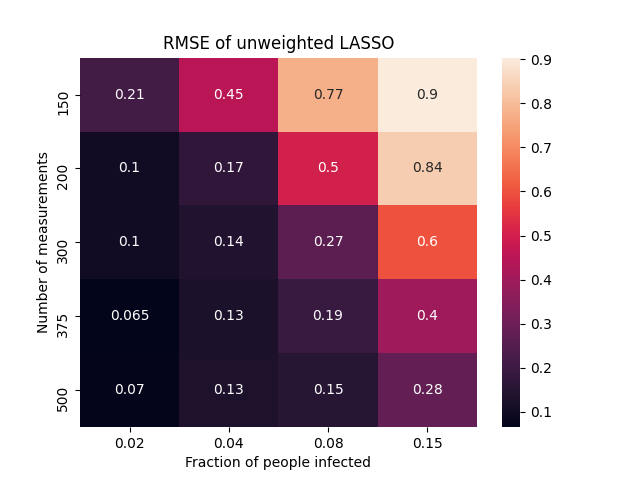
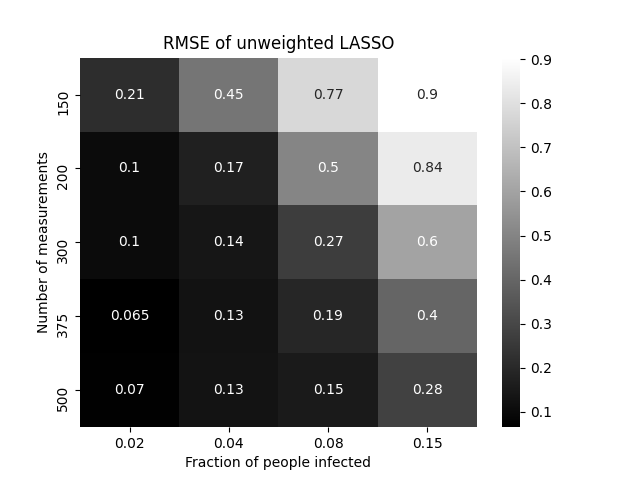
Changed plots to grayscale

diff --git a/src/main.py b/src/main.py
@@ -16,6 +16,7 @@ import warnings
 import numpy as np
 import seaborn as sns
 import matplotlib.pyplot as plt
+import matplotlib.cm as cm
 
 def main():
     # warnings.filterwarnings("ignore")
@@ -29,14 +30,14 @@ def main():
     plot = np.zeros((num_ns, num_ss))
     for i, n in enumerate(n_values):
         for j, s in enumerate(sparsity_values):
-            plot[i,j] = performance_map[str(n)][str(s)]['rrmse']*math.sqrt(1000)
+            plot[i,j] = performance_map[str(n)][str(s)]['sensitivity']
     
-    h = sns.heatmap(plot, yticklabels=n_values, xticklabels=sparsity_values, \
+    h = sns.heatmap(plot, cmap=cm.gray, yticklabels=n_values, xticklabels=sparsity_values, \
         annot=True)
     h.set(ylabel='Number of measurements', \
         xlabel='Fraction of people infected', \
-        title='RMSE of unweighted LASSO')
-    plt.savefig('data/plots/rmse-unweighted.png')
+        title='Sensitivity of unweighted LASSO')
+    plt.savefig('data/plots/sensitivity-unweighted.png')
     
     return
     for n in n_values:
@@ -51,7 +52,7 @@ def main():
             else:
                 print("Starting {},{}".format(n, sparsity))
             generator = Generator(n=n, sparsity=sparsity)
-            rrmse, sensitivity, specificity, mcc = monte_carlo_simulation(generator, num=10, debug=True)
+            rrmse, sensitivity, specificity, mcc = monte_carlo_simulation(generator, num=25, debug=True)
             performance_map[nstr][sparsitystr] = {
                 "rrmse" : rrmse,
                 "sensitivity" : sensitivity,
